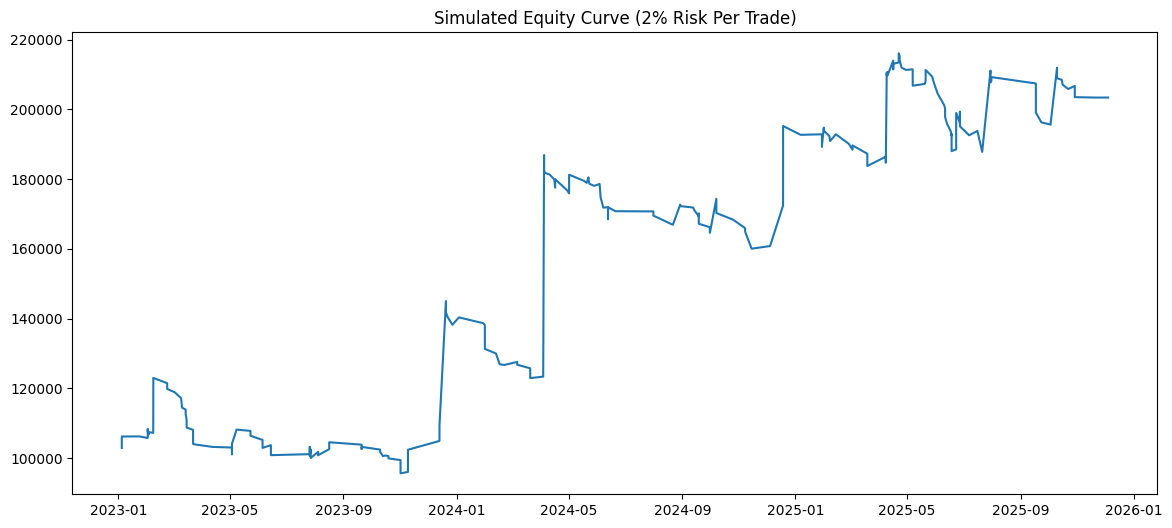
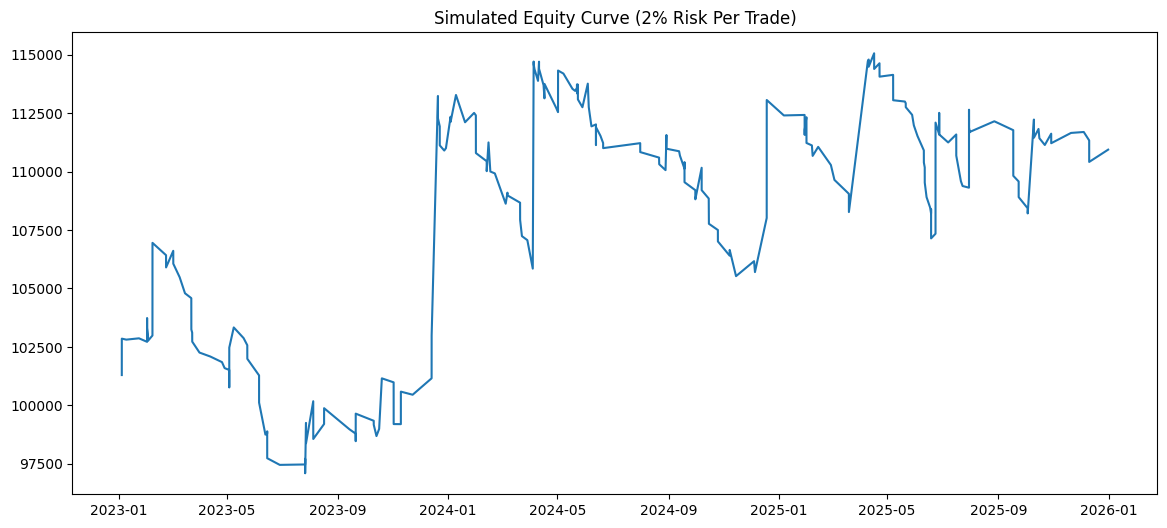
added github and links to github

diff --git a/src/pages/Projects.tsx b/src/pages/Projects.tsx
@@ -19,7 +19,7 @@ const Projects: React.FC = () => {
         { label: 'ROC AUC', value: '0.563'}
       ],
       image: '📊',
-      github: '#',
+      github: 'https://github.com/ejaxDev/rush_yard_model',
       demo: 'project-demo/1',
       highlights: [
         'Complete ML pipeline with betting strategy implementation',
@@ -43,7 +43,7 @@ const Projects: React.FC = () => {
         {label: "Expected Value", value: '5.5% return per trade'}
       ],
       image: '📈',
-      github: '#',
+      github: 'https://github.com/ejaxDev/big_movement_model',
       demo: 'project-demo/2',
       highlights: [
         'Complete ML pipeline implementation',
@@ -67,7 +67,7 @@ const Projects: React.FC = () => {
         { label: 'Build Tool', value: 'Vite' }
       ],
       image: '💼',
-      github: '#',
+      github: 'https://github.com/ejaxDev/portfolio_website',
       demo: null,
       highlights: [
         'Responsive design for all devices',
@@ -90,7 +90,7 @@ const Projects: React.FC = () => {
         {label: 'Overall Accuracy', value: '76.52%'}
       ],
       image: '💰',
-      github: '#',
+      github: 'https://github.com/ejaxDev/option_model',
       demo: 'project-demo/4',
       highlights: [
         'Complete workflow: data fetching → features → labeling → training → calibration → deployment',

diff --git a/src/projects/option_profit_model.tsx b/src/projects/option_profit_model.tsx
@@ -4,7 +4,7 @@ export const optionProfitModel: ProjectDemoData = {
   id: "5",
   title: "SPY Options Profit Prediction",
   description: 'Predicts if buying a SPY option will be profitable by 3:30pm market close. The model scans option strikes within ±2% of current SPY price throughout the trading day, using rolling price statistics across multiple timeframes (5min to 2hr windows) to identify high-confidence entry points. Strategy employs relative confidence scoring that accounts for strike distance from current price.',
-  githubUrl: "https://github.com/yourusername/spy-options-prediction",
+  githubUrl: "https://github.com/ejaxDev/option_model",
   plots: [
     {
       title: 'Model Calibration',

diff --git a/src/projects/rush_yard.tsx b/src/projects/rush_yard.tsx
@@ -4,7 +4,7 @@ export const rushYardProject: ProjectDemoData = {
   id: "1",
   title: "NFL Rushing Yards Prediction",
   description: "End-to-end XGBoost pipeline predicting RB rushing yards with multi-dimensional feature engineering across player performance, defensive matchups, team context, and workload competition. Features comprehensive injury modeling, game script analysis, and betting line classification with edge detection.",
-  githubUrl: "https://github.com/yourusername/nfl-rushing-prediction",
+  githubUrl: "https://github.com/ejaxDev/rush_yard_model",
   plots: [
     {
       title: 'Betting Strategy Performance',

diff --git a/src/projects/portfolio_website.tsx b/src/projects/portfolio_website.tsx
@@ -4,5 +4,5 @@ export const portfolioWebsite: ProjectDemoData = {
   id: '4',
   title: 'Portfolio Website',
   description: 'Modern React/TypeScript portfolio website built with Vite, Tailwind CSS, and React Router. Features responsive design, interactive project demos, and optimized performance.',
-  githubUrl: "https://github.com/yourusername/portfolio-website",
+  githubUrl: "https://github.com/ejaxDev/portfolio_website",
 }
